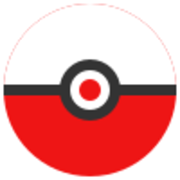
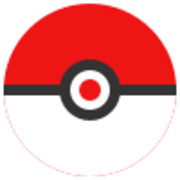
Polish leaderboard layout and Poké Ball interactions (#345)
* Align the leaderboard columns across rows

The stats block was auto-width inside a justify-between row and used
md:grid-cols-4, so each row sized its own columns. The best-card cell varies most
- a long name like "Team Rocket's Mewtwo ex" against a short one, or a dash for a
trainer with no cards - so every row placed its Value, Cards and P&L headings at a
different offset and the table did not read as columns at all.

Give the stats block an explicit column template and stop it shrinking, let the
trainer block absorb the remaining width, and allow the best-card cell to shrink
rather than push the row wider.

(cherry picked from commit a79fc981a91ff739a5745986a4358803ea96a22c)

* fix: polish leaderboard layout and Poké Ball interactions

---------

diff --git a/frontend/src/pages/Leaderboard.jsx b/frontend/src/pages/Leaderboard.jsx
@@ -21,14 +21,14 @@ function rankLabel(rank) {
 
 function TrainerAvatar({ avatarId, username }) {
   if (!avatarId) {
-    return <img src="/pokeball.svg" alt={username} className="h-12 w-12 rounded-full border border-border bg-bg-card p-2" />
+    return <img src="/pokeball.svg" alt={username} className="h-12 w-12 shrink-0 rounded-full border border-border bg-bg-card p-2" />
   }
 
   return (
     <img
       src={`https://raw.githubusercontent.com/PokeAPI/sprites/master/sprites/pokemon/versions/generation-v/black-white/animated/${avatarId}.gif`}
       alt={username}
-      className="h-12 w-12 rounded-full border border-border bg-bg-card p-1 pixelated"
+      className="h-12 w-12 shrink-0 rounded-full border border-border bg-bg-card p-1 pixelated"
     />
   )
 }
@@ -110,21 +110,21 @@ export default function Leaderboard() {
                 onClick={() => trainer.user_id !== currentUser?.id && navigate(`/leaderboard/compare/${trainer.user_id}`)}
                 className={`w-full rounded-2xl border border-border bg-bg-card p-4 text-left transition-all ${trainer.user_id !== currentUser?.id ? 'hover:border-yellow/40 hover:bg-bg-elevated cursor-pointer' : ''}`}
               >
-                <div className="flex flex-col gap-4 md:flex-row md:items-center md:justify-between">
-                  <div className="flex items-start gap-3">
+                <div className="flex flex-col gap-4 lg:grid lg:grid-cols-[minmax(0,1fr)_35rem] lg:items-center lg:gap-6">
+                  <div className="flex min-w-0 items-start gap-3">
                     <div className="flex h-12 min-w-12 items-center justify-center rounded-2xl bg-bg-primary text-lg font-black">
                       {rankLabel(index + 1)}
                     </div>
                     <TrainerAvatar avatarId={trainer.avatar_id} username={trainer.username} />
-                    <div>
-                      <div className="flex items-center gap-1.5">
-                        <p className="text-lg font-semibold text-text-primary">{trainer.username}</p>
+                    <div className="min-w-0">
+                      <div className="flex min-w-0 items-center gap-1.5">
+                        <p className="truncate text-lg font-semibold text-text-primary">{trainer.username}</p>
                         {trainer.public_handle && (
                           <Link
                             to={`/u/${trainer.public_handle}`}
                             onClick={(e) => e.stopPropagation()}
                             title={t('leaderboard.viewPublicProfile')}
-                            className="text-text-muted hover:text-brand-red transition-colors"
+                            className="shrink-0 text-text-muted hover:text-brand-red transition-colors"
                           >
                             <Globe size={14} />
                           </Link>
@@ -132,11 +132,11 @@ export default function Leaderboard() {
                       </div>
                       <p className="text-xs uppercase tracking-[0.2em] text-text-muted">{trainer.role}</p>
                       {trainer.user_id !== currentUser?.id && (
-                      <div className="flex gap-2 mt-1">
+                      <div className="mt-1 flex min-w-0 gap-2">
                         <button
                           type="button"
                           onClick={(e) => { e.stopPropagation(); navigate(`/collection/user/${trainer.user_id}`) }}
-                          className="text-[10px] text-brand-red hover:text-brand-red/80 font-semibold"
+                          className="truncate text-[10px] font-semibold text-brand-red hover:text-brand-red/80"
                         >
                           {t('leaderboard.viewCollection')}
                         </button>
@@ -145,7 +145,7 @@ export default function Leaderboard() {
                     </div>
                   </div>
 
-                  <div className="grid grid-cols-2 gap-3 md:grid-cols-4 md:items-center">
+                  <div className="grid grid-cols-2 gap-3 lg:grid-cols-[6rem_5rem_15rem_6rem] lg:items-center lg:gap-4">
                     <div>
                       <p className="text-[11px] uppercase tracking-[0.2em] text-text-muted">{t('leaderboard.value')}</p>
                       <p className="mt-1 text-sm font-semibold text-yellow">{formatPrice(trainer.total_value)}</p>
@@ -154,11 +154,11 @@ export default function Leaderboard() {
                       <p className="text-[11px] uppercase tracking-[0.2em] text-text-muted">{t('leaderboard.cards')}</p>
                       <p className="mt-1 text-sm font-semibold text-text-primary">{Number(trainer.total_cards ?? 0).toLocaleString()}</p>
                     </div>
-                    <div className="col-span-2 md:col-span-1">
+                    <div className="col-span-2 min-w-0 lg:col-span-1">
                       <p className="text-[11px] uppercase tracking-[0.2em] text-text-muted">{t('leaderboard.bestCard')}</p>
                       {bestCard ? (
                         <CardIdentity
-                          className="mt-1"
+                          className="mt-1 w-full max-w-full"
                           card={bestCard}
                           image={resolveCardImageUrl(bestCard)}
                           name={bestCard.name}

diff --git a/frontend/src/pages/Compare.jsx b/frontend/src/pages/Compare.jsx
@@ -1,7 +1,7 @@
 import { useMemo, useState } from 'react'
 import { Navigate, useNavigate, useParams } from 'react-router-dom'
 import { useQuery } from '@tanstack/react-query'
-import { ArrowLeftRight } from 'lucide-react'
+import { ArrowLeft, ArrowLeftRight } from 'lucide-react'
 import { compareUsers } from '../api/client'
 import { useSettings } from '../contexts/SettingsContext'
 import { useAuth } from '../contexts/AuthContext'
@@ -11,14 +11,14 @@ import { CardModal } from '../components/CardItem'
 
 function TrainerAvatar({ avatarId, username }) {
   if (!avatarId) {
-    return <img src="/pokeball.svg" alt={username} className="h-16 w-16 rounded-full border border-border bg-bg-card p-3" />
+    return <img src="/pokeball.svg" alt={username} className="h-16 w-16 shrink-0 rounded-full border border-border bg-bg-card p-3" />
   }
 
   return (
     <img
       src={`https://raw.githubusercontent.com/PokeAPI/sprites/master/sprites/pokemon/versions/generation-v/black-white/animated/${avatarId}.gif`}
       alt={username}
-      className="h-16 w-16 rounded-full border border-border bg-bg-card p-1 pixelated"
+      className="h-16 w-16 shrink-0 rounded-full border border-border bg-bg-card p-1 pixelated"
     />
   )
 }
@@ -40,8 +40,8 @@ function TrainerPanel({ trainer, formatPrice, t, onCardClick }) {
     <div className="card space-y-4">
       <div className="flex items-center gap-3">
         <TrainerAvatar avatarId={trainer?.avatar_id} username={trainer?.username} />
-        <div>
-          <h2 className="text-xl font-bold text-text-primary">{trainer?.username}</h2>
+        <div className="min-w-0">
+          <h2 className="truncate text-xl font-bold text-text-primary">{trainer?.username}</h2>
           <p className="text-sm text-text-secondary">{trainer?.role}</p>
         </div>
       </div>
@@ -104,18 +104,17 @@ export default function Compare() {
 
   return (
     <div className="page-container">
+      <button type="button" className="btn-ghost text-sm py-1.5" onClick={() => navigate('/leaderboard')}>
+        <ArrowLeft size={14} /> {t('nav.leaderboard')}
+      </button>
+
       <div className="card">
-        <div className="flex items-center justify-between gap-3">
-          <div>
-            <h1 className="flex items-center gap-2 text-xl font-bold text-text-primary">
-              <ArrowLeftRight size={20} className="text-blue" />
-              {t('compare.title')}
-            </h1>
-            <p className="mt-1 text-sm text-text-secondary">{t('leaderboard.compare')}</p>
-          </div>
-          <button type="button" className="btn-ghost" onClick={() => navigate('/leaderboard')}>
-            {t('nav.leaderboard')}
-          </button>
+        <div>
+          <h1 className="flex items-center gap-2 text-xl font-bold text-text-primary">
+            <ArrowLeftRight size={20} className="text-blue" />
+            {t('compare.title')}
+          </h1>
+          <p className="mt-1 text-sm text-text-secondary">{t('leaderboard.compare')}</p>
         </div>
       </div>
 

diff --git a/frontend/src/components/AppNav.jsx b/frontend/src/components/AppNav.jsx
@@ -1,3 +1,4 @@
+import { useRef } from 'react'
 import { useNavigate, useLocation } from 'react-router-dom'
 import { LogOut } from 'lucide-react'
 import { useAuth } from '../contexts/AuthContext'
@@ -26,6 +27,45 @@ export default function AppNav() {
   const location = useLocation()
   const { user, logout, multiUser } = useAuth()
   const { t } = useSettings()
+  const homeButtonAnimations = useRef([])
+
+  const handleHomePointerEnter = (event) => {
+    if (!window.matchMedia('(hover: hover) and (pointer: fine)').matches || window.matchMedia('(prefers-reduced-motion: reduce)').matches) return
+
+    const reversingAnimations = homeButtonAnimations.current.filter(
+      (animation) => animation.playState === 'running' && animation.playbackRate < 0,
+    )
+    if (reversingAnimations.length === homeButtonAnimations.current.length && reversingAnimations.length > 0) {
+      reversingAnimations.forEach((animation) => animation.reverse())
+      return
+    }
+
+    homeButtonAnimations.current.forEach((animation) => animation.cancel())
+    const timing = { duration: 360, fill: 'both' }
+    const animations = [
+      event.currentTarget.animate(
+        [{ rotate: '0deg' }, { rotate: '360deg' }],
+        { ...timing, easing: 'linear' },
+      ),
+      event.currentTarget.animate(
+        [{ scale: 1 }, { scale: 1.08 }, { scale: 1 }],
+        { ...timing, easing: 'cubic-bezier(0.4, 0, 0.2, 1)' },
+      ),
+    ]
+    animations.forEach((animation) => {
+      animation.onfinish = () => {
+        if (animation.playbackRate < 0) animation.cancel()
+      }
+    })
+    homeButtonAnimations.current = animations
+  }
+
+  const handleHomePointerLeave = () => {
+    homeButtonAnimations.current.forEach((animation) => {
+      if (animation.playState === 'running' && animation.playbackRate > 0) animation.reverse()
+      else if (animation.playState === 'finished') animation.cancel()
+    })
+  }
 
   const handleLogout = () => { logout(); navigate('/login') }
 
@@ -70,9 +110,12 @@ export default function AppNav() {
       {/* Floating Pokeball home button — bottom left */}
       <button
         onClick={() => navigate('/')}
+        onPointerEnter={handleHomePointerEnter}
+        onPointerLeave={handleHomePointerLeave}
+        onPointerCancel={handleHomePointerLeave}
         aria-label={t('home.navigation')}
-        className="fixed bottom-6 left-4 z-50 w-12 h-12 rounded-full flex items-center justify-center
-          transition-all duration-200 active:scale-90 hover:scale-110"
+        className="pokeball-home-button fixed bottom-6 left-4 z-50 w-12 h-12 rounded-full flex items-center justify-center
+          transition-transform duration-200 active:scale-90"
         style={{
           background: 'linear-gradient(180deg, #e3000b 50%, #f5f5f5 50%)',
           boxShadow: '0 4px 20px rgba(0,0,0,0.5), 0 0 0 2px rgba(0,0,0,0.8), 0 0 16px rgba(227,0,11,0.3)',

diff --git a/frontend/index.html b/frontend/index.html
@@ -5,9 +5,9 @@
     <meta name="viewport" content="width=device-width, initial-scale=1.0, viewport-fit=cover" />
     <title>Pokemon TCG Collection</title>
     <!-- Favicons -->
-    <link rel="icon" type="image/svg+xml" href="/pokeball.svg" />
-    <link rel="icon" type="image/png" sizes="48x48" href="/favicon-48.png" />
-    <link rel="apple-touch-icon" sizes="180x180" href="/apple-touch-icon.png" />
+    <link rel="icon" type="image/svg+xml" href="/pokeball.svg?v=2" />
+    <link rel="icon" type="image/png" sizes="48x48" href="/favicon-48.png?v=2" />
+    <link rel="apple-touch-icon" sizes="180x180" href="/apple-touch-icon.png?v=2" />
     <!-- PWA Manifest -->
     <link rel="manifest" href="/manifest.json" />
     <meta name="theme-color" content="#e3000b" />

diff --git a/README.md b/README.md
@@ -18,9 +18,9 @@ Be kind. Be clear. Assume good intent. Keep feedback constructive.
 - 👤 **Creator:** [Gilles Romer](https://romerg.de/)
 - ✉ **Contact:** [info@romerg.de](mailto:info@romerg.de)
 
-![Version](https://img.shields.io/badge/version-v1.36.0-e3000b?style=flat-square) ![Dark Theme](https://img.shields.io/badge/theme-dark-1a1a2e?style=flat-square) ![TCGdex](https://img.shields.io/badge/card%20data-TCGdex-e3000b?style=flat-square) ![Docker](https://img.shields.io/badge/deploy-Docker-2496ed?style=flat-square) ![FastAPI](https://img.shields.io/badge/backend-FastAPI-009688?style=flat-square) ![React](https://img.shields.io/badge/frontend-React%2018-61dafb?style=flat-square) [![Ko-fi](https://img.shields.io/badge/support-Ko--fi-ff5e5b?style=flat-square&logo=ko-fi&logoColor=white)](https://ko-fi.com/gillesromer)
+![Version](https://img.shields.io/badge/version-v1.37.0-e3000b?style=flat-square) ![Dark Theme](https://img.shields.io/badge/theme-dark-1a1a2e?style=flat-square) ![TCGdex](https://img.shields.io/badge/card%20data-TCGdex-e3000b?style=flat-square) ![Docker](https://img.shields.io/badge/deploy-Docker-2496ed?style=flat-square) ![FastAPI](https://img.shields.io/badge/backend-FastAPI-009688?style=flat-square) ![React](https://img.shields.io/badge/frontend-React%2018-61dafb?style=flat-square) [![Ko-fi](https://img.shields.io/badge/support-Ko--fi-ff5e5b?style=flat-square&logo=ko-fi&logoColor=white)](https://ko-fi.com/gillesromer)
 
-**Current version:** `v1.36.0` · Releases are tracked on the [GitHub Releases page](https://github.com/Git-Romer/pokecollector/releases).
+**Current version:** `v1.37.0` · Releases are tracked on the [GitHub Releases page](https://github.com/Git-Romer/pokecollector/releases).
 
 ![WebApp Preview](preview-homescreen.png)
 
